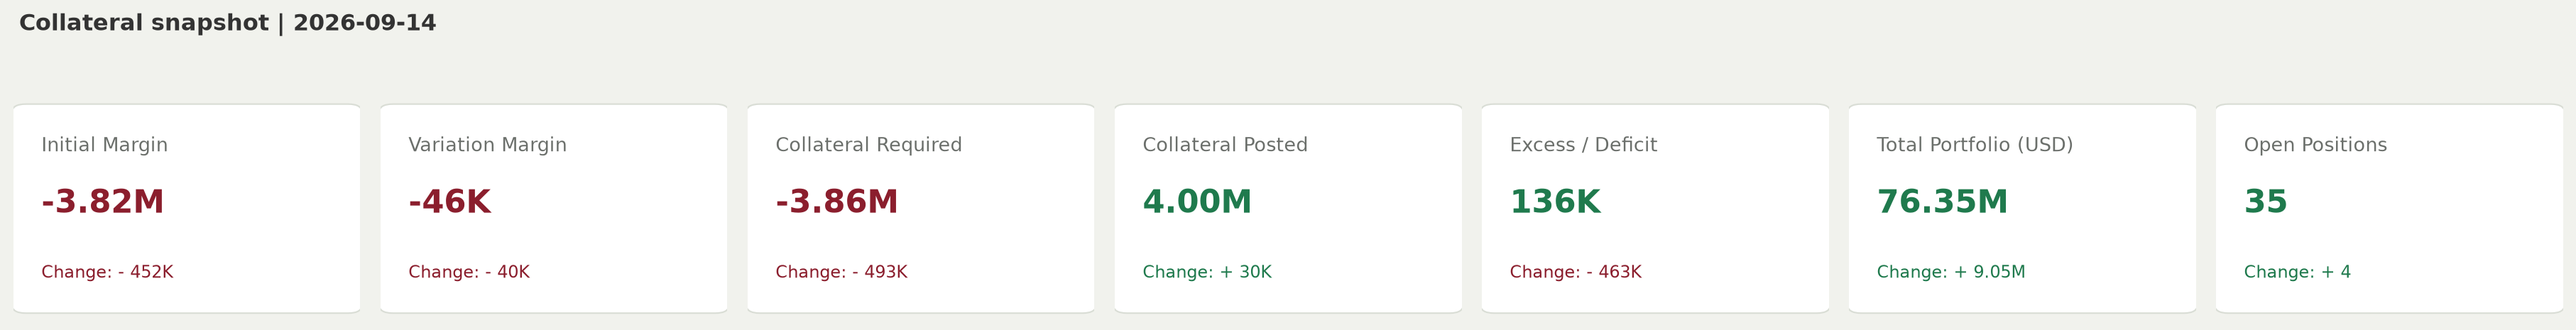
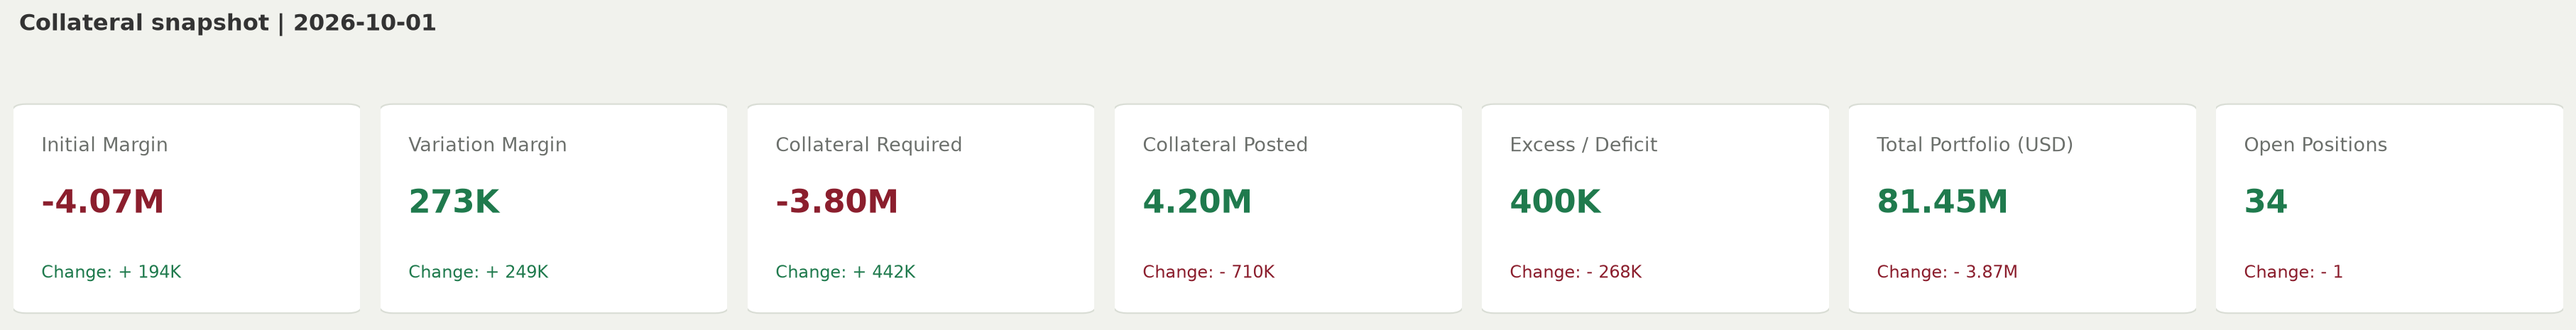
Re-rendered all quarto pages

diff --git a/docs/treasury-cashflow-simulation/report.html b/docs/treasury-cashflow-simulation/report.html
@@ -158,6 +158,10 @@ pre > code.sourceCode > span > a:first-child::before { text-decoration: underlin
     <a class="dropdown-item" href="../kyriba-transformation/Case_01_FX_Integration/report.html">
  <span class="dropdown-text">Case 01: FX Platform Integration</span></a>
   </li>  
+        <li>
+    <a class="dropdown-item" href="../kyriba-transformation/Case_02_Payments_Connectivity/report.html">
+ <span class="dropdown-text">Case 02: Payments Connectivity</span></a>
+  </li>  
     </ul>
   </li>
   <li class="nav-item">
@@ -273,7 +277,7 @@ pre > code.sourceCode > span > a:first-child::before { text-decoration: underlin
 <section id="code-walkthrough" class="level1">
 <h1>Code walkthrough</h1>
 <p>Explain key modules and functions used in the simulation. Use the code cells below to show examples and small excerpts.</p>
-<div id="9c3738c9" class="cell" data-execution_count="1">
+<div id="ef7e96e1" class="cell" data-execution_count="1">
 <div class="code-copy-outer-scaffold"><div class="sourceCode cell-code" id="cb3"><pre class="sourceCode python code-with-copy"><code class="sourceCode python"><span id="cb3-1"><a href="#cb3-1" aria-hidden="true" tabindex="-1"></a><span class="co"># Example: show latest 5 movements from PostgreSQL (safe if DATABASE_URL is missing)</span></span>
 <span id="cb3-2"><a href="#cb3-2" aria-hidden="true" tabindex="-1"></a><span class="im">import</span> os</span>
 <span id="cb3-3"><a href="#cb3-3" aria-hidden="true" tabindex="-1"></a><span class="im">import</span> pandas <span class="im">as</span> pd</span>
@@ -349,7 +353,7 @@ pre > code.sourceCode > span > a:first-child::before { text-decoration: underlin
 </section>
 <section id="visual-example-plot-latest-balances-reads-csv-if-present-otherwise-uses-sample" class="level1">
 <h1>Visual example: plot latest balances (reads CSV if present, otherwise uses sample)</h1>
-<div id="ad26f587" class="cell" data-execution_count="2">
+<div id="d3cd73ef" class="cell" data-execution_count="2">
 <div class="code-copy-outer-scaffold"><div class="sourceCode cell-code" id="cb5"><pre class="sourceCode python code-with-copy"><code class="sourceCode python"><span id="cb5-1"><a href="#cb5-1" aria-hidden="true" tabindex="-1"></a><span class="im">import</span> pandas <span class="im">as</span> pd</span>
 <span id="cb5-2"><a href="#cb5-2" aria-hidden="true" tabindex="-1"></a><span class="im">import</span> matplotlib.pyplot <span class="im">as</span> plt</span>
 <span id="cb5-3"><a href="#cb5-3" aria-hidden="true" tabindex="-1"></a><span class="im">from</span> pathlib <span class="im">import</span> Path</span>

diff --git a/docs/create-date-table/report.html b/docs/create-date-table/report.html
@@ -158,6 +158,10 @@ pre > code.sourceCode > span > a:first-child::before { text-decoration: underlin
     <a class="dropdown-item" href="../kyriba-transformation/Case_01_FX_Integration/report.html">
  <span class="dropdown-text">Case 01: FX Platform Integration</span></a>
   </li>  
+        <li>
+    <a class="dropdown-item" href="../kyriba-transformation/Case_02_Payments_Connectivity/report.html">
+ <span class="dropdown-text">Case 02: Payments Connectivity</span></a>
+  </li>  
     </ul>
   </li>
   <li class="nav-item">
@@ -259,7 +263,7 @@ pre > code.sourceCode > span > a:first-child::before { text-decoration: underlin
 </section>
 <section id="example-preview-calendar-rows-safe-local-sample-if-db-not-available" class="level1">
 <h1>Example: preview calendar rows (safe local sample if DB not available)</h1>
-<div id="b7b12e85" class="cell" data-execution_count="1">
+<div id="84407c81" class="cell" data-execution_count="1">
 <div class="code-copy-outer-scaffold"><div class="sourceCode cell-code" id="cb3"><pre class="sourceCode python code-with-copy"><code class="sourceCode python"><span id="cb3-1"><a href="#cb3-1" aria-hidden="true" tabindex="-1"></a><span class="im">import</span> pandas <span class="im">as</span> pd</span>
 <span id="cb3-2"><a href="#cb3-2" aria-hidden="true" tabindex="-1"></a><span class="im">from</span> pathlib <span class="im">import</span> Path</span>
 <span id="cb3-3"><a href="#cb3-3" aria-hidden="true" tabindex="-1"></a><span class="im">from</span> IPython.display <span class="im">import</span> display</span>
@@ -331,7 +335,7 @@ pre > code.sourceCode > span > a:first-child::before { text-decoration: underlin
 </div>
 </div>
 </div>
-<div id="c3c04058" class="cell" data-execution_count="2">
+<div id="51fad3ad" class="cell" data-execution_count="2">
 <div class="code-copy-outer-scaffold"><div class="sourceCode cell-code" id="cb4"><pre class="sourceCode python code-with-copy"><code class="sourceCode python"><span id="cb4-1"><a href="#cb4-1" aria-hidden="true" tabindex="-1"></a><span class="co"># Visual: count of weekend vs weekday in the sample</span></span>
 <span id="cb4-2"><a href="#cb4-2" aria-hidden="true" tabindex="-1"></a><span class="im">import</span> matplotlib.pyplot <span class="im">as</span> plt</span>
 <span id="cb4-3"><a href="#cb4-3" aria-hidden="true" tabindex="-1"></a>counts <span class="op">=</span> df[<span class="st">'is_weekend'</span>].value_counts().sort_index()</span>

diff --git a/docs/fx-prime-brokerage-collateral/report.html b/docs/fx-prime-brokerage-collateral/report.html
@@ -161,6 +161,10 @@ pre > code.sourceCode > span > a:first-child::before { text-decoration: underlin
     <a class="dropdown-item" href="../kyriba-transformation/Case_01_FX_Integration/report.html">
  <span class="dropdown-text">Case 01: FX Platform Integration</span></a>
   </li>  
+        <li>
+    <a class="dropdown-item" href="../kyriba-transformation/Case_02_Payments_Connectivity/report.html">
+ <span class="dropdown-text">Case 02: Payments Connectivity</span></a>
+  </li>  
     </ul>
   </li>
   <li class="nav-item">
@@ -889,28 +893,28 @@ Figure&nbsp;2: Code Workflow
 <th data-quarto-table-cell-role="th">0</th>
 <td>portfolio</td>
 <td>data\FX-portfolio\portfolio.csv</td>
-<td>3796</td>
+<td>4251</td>
 <td>9</td>
 </tr>
 <tr class="even">
 <th data-quarto-table-cell-role="th">1</th>
 <td>limits</td>
 <td>data\Limits\limits.csv</td>
-<td>880</td>
+<td>945</td>
 <td>5</td>
 </tr>
 <tr class="odd">
 <th data-quarto-table-cell-role="th">2</th>
 <td>mark_to_market</td>
 <td>data\Mark-to-market\mark_to_market_portfolio.csv</td>
-<td>3809</td>
+<td>4261</td>
 <td>6</td>
 </tr>
 <tr class="even">
 <th data-quarto-table-cell-role="th">3</th>
 <td>mtm_report</td>
 <td>data\Mark-to-market\mtm_report.csv</td>
-<td>176</td>
+<td>189</td>
 <td>6</td>
 </tr>
 </tbody>
@@ -944,17 +948,17 @@ Figure&nbsp;2: Code Workflow
 <tr class="odd">
 <th data-quarto-table-cell-role="th">0</th>
 <td>EUR/GBP</td>
-<td>4.097660e+09</td>
+<td>4.423648e+09</td>
 </tr>
 <tr class="even">
 <th data-quarto-table-cell-role="th">1</th>
 <td>EUR/USD</td>
-<td>3.641655e+09</td>
+<td>3.886533e+09</td>
 </tr>
 <tr class="odd">
 <th data-quarto-table-cell-role="th">2</th>
 <td>GBP/USD</td>
-<td>2.618288e+09</td>
+<td>3.092032e+09</td>
 </tr>
 </tbody>
 </table>
@@ -1173,12 +1177,12 @@ Figure&nbsp;3: Collateral Process Flow
 <tr class="odd">
 <th data-quarto-table-cell-role="th">0</th>
 <td>Report dates</td>
-<td>176</td>
+<td>189</td>
 </tr>
 <tr class="even">
 <th data-quarto-table-cell-role="th">1</th>
 <td>Latest report date</td>
-<td>2026-09-14</td>
+<td>2026-10-01</td>
 </tr>
 <tr class="odd">
 <th data-quarto-table-cell-role="th">2</th>
@@ -1193,7 +1197,7 @@ Figure&nbsp;3: Collateral Process Flow
 <tr class="odd">
 <th data-quarto-table-cell-role="th">4</th>
 <td>Deficit days</td>
-<td>13</td>
+<td>16</td>
 </tr>
 </tbody>
 </table>

diff --git a/docs/daily-fx-rates/report.html b/docs/daily-fx-rates/report.html
@@ -158,6 +158,10 @@ pre > code.sourceCode > span > a:first-child::before { text-decoration: underlin
     <a class="dropdown-item" href="../kyriba-transformation/Case_01_FX_Integration/report.html">
  <span class="dropdown-text">Case 01: FX Platform Integration</span></a>
   </li>  
+        <li>
+    <a class="dropdown-item" href="../kyriba-transformation/Case_02_Payments_Connectivity/report.html">
+ <span class="dropdown-text">Case 02: Payments Connectivity</span></a>
+  </li>  
     </ul>
   </li>
   <li class="nav-item">
@@ -260,7 +264,7 @@ pre > code.sourceCode > span > a:first-child::before { text-decoration: underlin
 </section>
 <section id="example" class="level1">
 <h1>Example</h1>
-<div id="857acbbb" class="cell" data-execution_count="1">
+<div id="390e1028" class="cell" data-execution_count="1">
 <div class="code-copy-outer-scaffold"><div class="sourceCode cell-code" id="cb4"><pre class="sourceCode python code-with-copy"><code class="sourceCode python"><span id="cb4-1"><a href="#cb4-1" aria-hidden="true" tabindex="-1"></a><span class="im">import</span> pandas <span class="im">as</span> pd</span>
 <span id="cb4-2"><a href="#cb4-2" aria-hidden="true" tabindex="-1"></a><span class="im">from</span> pathlib <span class="im">import</span> Path</span>
 <span id="cb4-3"><a href="#cb4-3" aria-hidden="true" tabindex="-1"></a><span class="im">from</span> IPython.display <span class="im">import</span> display</span>
@@ -317,7 +321,7 @@ pre > code.sourceCode > span > a:first-child::before { text-decoration: underlin
 </div>
 </div>
 </div>
-<div id="fd90b3b0" class="cell" data-execution_count="2">
+<div id="e26507ec" class="cell" data-execution_count="2">
 <div class="code-copy-outer-scaffold"><div class="sourceCode cell-code" id="cb6"><pre class="sourceCode python code-with-copy"><code class="sourceCode python"><span id="cb6-1"><a href="#cb6-1" aria-hidden="true" tabindex="-1"></a><span class="co"># Visual: simple FX time series example (synthetic if CSV missing)</span></span>
 <span id="cb6-2"><a href="#cb6-2" aria-hidden="true" tabindex="-1"></a><span class="im">import</span> matplotlib.pyplot <span class="im">as</span> plt</span>
 <span id="cb6-3"><a href="#cb6-3" aria-hidden="true" tabindex="-1"></a><span class="cf">if</span> p.exists():</span>

diff --git a/docs/kyriba-transformation/Case_01_FX_Integration/report.html b/docs/kyriba-transformation/Case_01_FX_Integration/report.html
@@ -397,6 +397,7 @@ ul.task-list li input[type="checkbox"] {
 <li><a href="presentation/Case_01_-_FX_Integration.pdf" target="_blank">Case presentation (PDF)</a></li>
 <li><a href="presentation/Case_01_-_FX_Integration.pptx">Case presentation (PowerPoint)</a></li>
 <li><a href="../../kyriba-transformation/report.html">Kyriba transformation overview</a></li>
+<li><a href="../../kyriba-transformation/Case_02_Payments_Connectivity/report.html">Case 02: Payments Connectivity</a></li>
 </ul>
 <div class="report-footer">
 <p>Source: <code>Case 01 - FX Integration</code> presentation supplied for the Kyriba transformation portfolio. Quantitative claims are reproduced with the source’s approximate or conservative qualifiers.</p>

diff --git a/docs/kyriba-transformation/accounting/report.html b/docs/kyriba-transformation/accounting/report.html
@@ -120,6 +120,10 @@ ul.task-list li input[type="checkbox"] {
     <a class="dropdown-item" href="../../kyriba-transformation/Case_01_FX_Integration/report.html">
  <span class="dropdown-text">Case 01: FX Platform Integration</span></a>
   </li>  
+        <li>
+    <a class="dropdown-item" href="../../kyriba-transformation/Case_02_Payments_Connectivity/report.html">
+ <span class="dropdown-text">Case 02: Payments Connectivity</span></a>
+  </li>  
     </ul>
   </li>
   <li class="nav-item">

diff --git a/README.md b/README.md
@@ -10,12 +10,13 @@ The portfolio is published as a Quarto website. The landing page is [index.qmd](
 |---|---|---|
 | Kyriba TMS Transformation | [kyriba-transformation/report.qmd](kyriba-transformation/report.qmd) | [docs/kyriba-transformation/report.html](docs/kyriba-transformation/report.html) |
 | Kyriba Case 01: FX Platform Integration | [kyriba-transformation/Case_01_FX_Integration/report.qmd](kyriba-transformation/Case_01_FX_Integration/report.qmd) | [docs/kyriba-transformation/Case_01_FX_Integration/report.html](docs/kyriba-transformation/Case_01_FX_Integration/report.html) |
+| Kyriba Case 02: Payments Connectivity | [kyriba-transformation/Case_02_Payments_Connectivity/report.qmd](kyriba-transformation/Case_02_Payments_Connectivity/report.qmd) | [docs/kyriba-transformation/Case_02_Payments_Connectivity/report.html](docs/kyriba-transformation/Case_02_Payments_Connectivity/report.html) |
 | FX Prime Brokerage Collateral | [fx-prime-brokerage-collateral/report.qmd](fx-prime-brokerage-collateral/report.qmd) | [docs/fx-prime-brokerage-collateral/report.html](docs/fx-prime-brokerage-collateral/report.html) |
 | Treasury Cashflow Simulation | [treasury-cashflow-simulation/report.qmd](treasury-cashflow-simulation/report.qmd) | [docs/treasury-cashflow-simulation/report.html](docs/treasury-cashflow-simulation/report.html) |
 | Daily FX Rates | [daily-fx-rates/report.qmd](daily-fx-rates/report.qmd) | [docs/daily-fx-rates/report.html](docs/daily-fx-rates/report.html) |
 | Create Date Table | [create-date-table/report.qmd](create-date-table/report.qmd) | [docs/create-date-table/report.html](docs/create-date-table/report.html) |
 
-- **Kyriba TMS Transformation** — a source-traceable case study of Kyriba Treasury Management System functional design, data governance, integrations and continuous improvement, built from a supplied presentation. Includes an Accounting deep dive and Case 01 on FX platform integration.
+- **Kyriba TMS Transformation** — a source-traceable case study of Kyriba Treasury Management System functional design, data governance, integrations and continuous improvement, built from a supplied presentation. Includes an Accounting deep dive, Case 01 on FX platform integration and Case 02 on payments connectivity.
 - **FX Prime Brokerage Collateral** — a reproducible Python pipeline generating synthetic FX portfolio, limits, mark-to-market and collateral datasets, connected to a Power BI dashboard.
 - **Treasury Cashflow Simulation** — synthetic daily cash movements, internal sweeps, and cash-position reporting persisted to PostgreSQL.
 - **Daily FX Rates** — daily FX-rate ingestion from the Frankfurter API with historical backfill, data-quality flags, and PostgreSQL storage.
@@ -34,7 +35,8 @@ Work_Portfolio/
 ├── docs/                        # rendered Quarto website (output)
 ├── kyriba-transformation/
 │   ├── accounting/              # example sub-project page
-│   └── Case_01_FX_Integration/  # focused FX integration case
+│   ├── Case_01_FX_Integration/  # focused FX integration case
+│   └── Case_02_Payments_Connectivity/  # focused payments connectivity case
 ├── fx-prime-brokerage-collateral/
 ├── treasury-cashflow-simulation/
 ├── daily-fx-rates/
